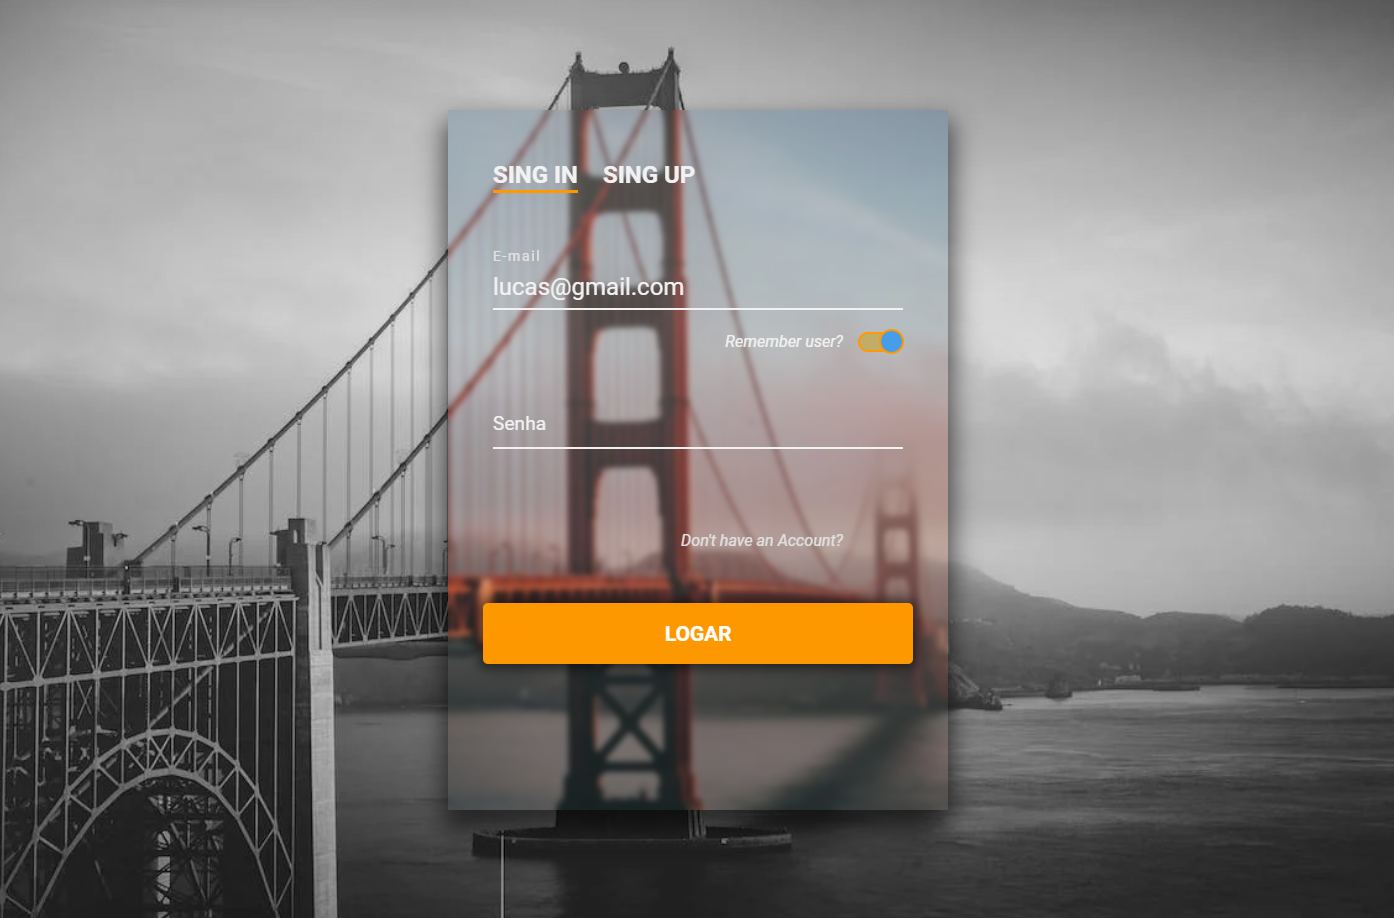
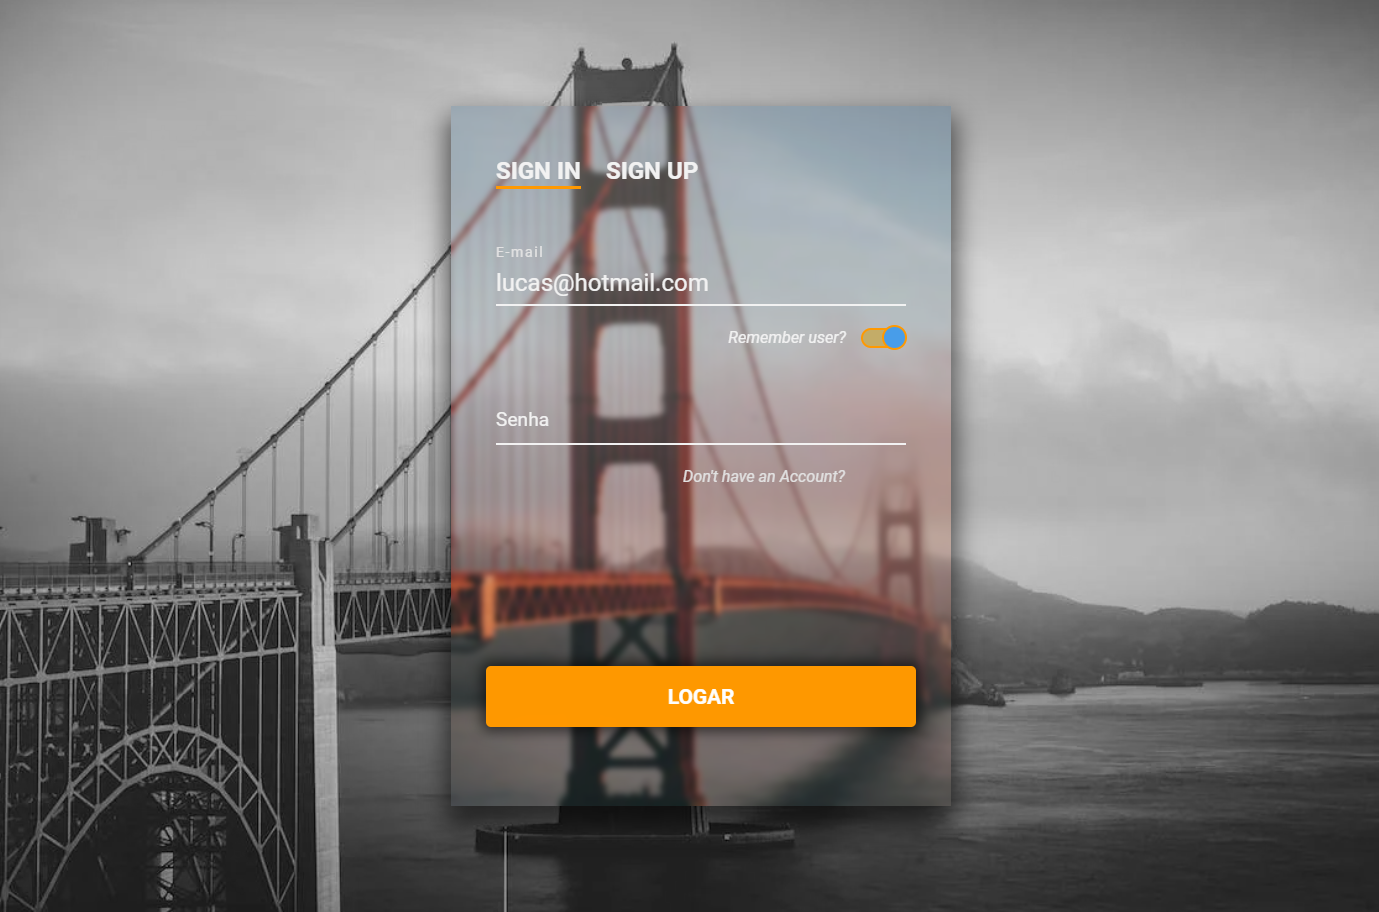
fix- sign word and btn position

diff --git a/index.html b/index.html
@@ -19,8 +19,8 @@
         <div class="form-wrap">
             <div class="form">
                 <div class="mode-wrap">
-                    <div class="mode mode-active" id="sing-in"><h2>Sing In</h2></div>
-                    <div class="mode " id="sing-up"><h2>Sing Up</h2></div>
+                    <div class="mode mode-active" id="sing-in"><h2>Sign In</h2></div>
+                    <div class="mode " id="sing-up"><h2>Sign Up</h2></div>
                 </div>
                 <div class="mode-content">
 
@@ -43,10 +43,11 @@
                                     <label for="">Senha</label>
                                     <span class="form-validation-error"></span>
                                 </div>
+                                <div class="dont-have-acc">
+                                    <p>Don't have an Account?</p>
+                                </div>
                             </div>
-                            <div class="dont-have-acc">
-                                <p>Don't have an Account?</p>
-                            </div>
+                            
                         </form>
                         <!-- <button type="submit" class="logar-btn">Logar</button> -->
                         <div class="logar-btn">Logar</div>

diff --git a/assets/styles/_singIn.scss b/assets/styles/_singIn.scss
@@ -3,7 +3,7 @@
     animation: opacityEffect 1s ease-in-out 3s forwards;
     .input-container{
         //background-color: red;
-        
+        height: 465px;
         padding: 60px 10px;
         .input{
             position: relative;
@@ -81,7 +81,7 @@
     }
     .dont-have-acc{
         //background-color: red;
-        margin-right: 70px;
+        margin-right: 61px;
         color: var(--color-font-sub);
         text-align: end;
         font-style: italic;

diff --git a/assets/styles/main.css b/assets/styles/main.css
@@ -190,6 +190,7 @@ main .form-wrap .form .mode-content {
 }
 
 .sing-in-content .input-container, .sing-up-content .input-container {
+  height: 465px;
   padding: 60px 10px;
 }
 
@@ -284,7 +285,7 @@ main .form-wrap .form .mode-content {
 }
 
 .sing-in-content .dont-have-acc, .sing-up-content .dont-have-acc {
-  margin-right: 70px;
+  margin-right: 61px;
   color: var(--color-font-sub);
   text-align: end;
   font-style: italic;
